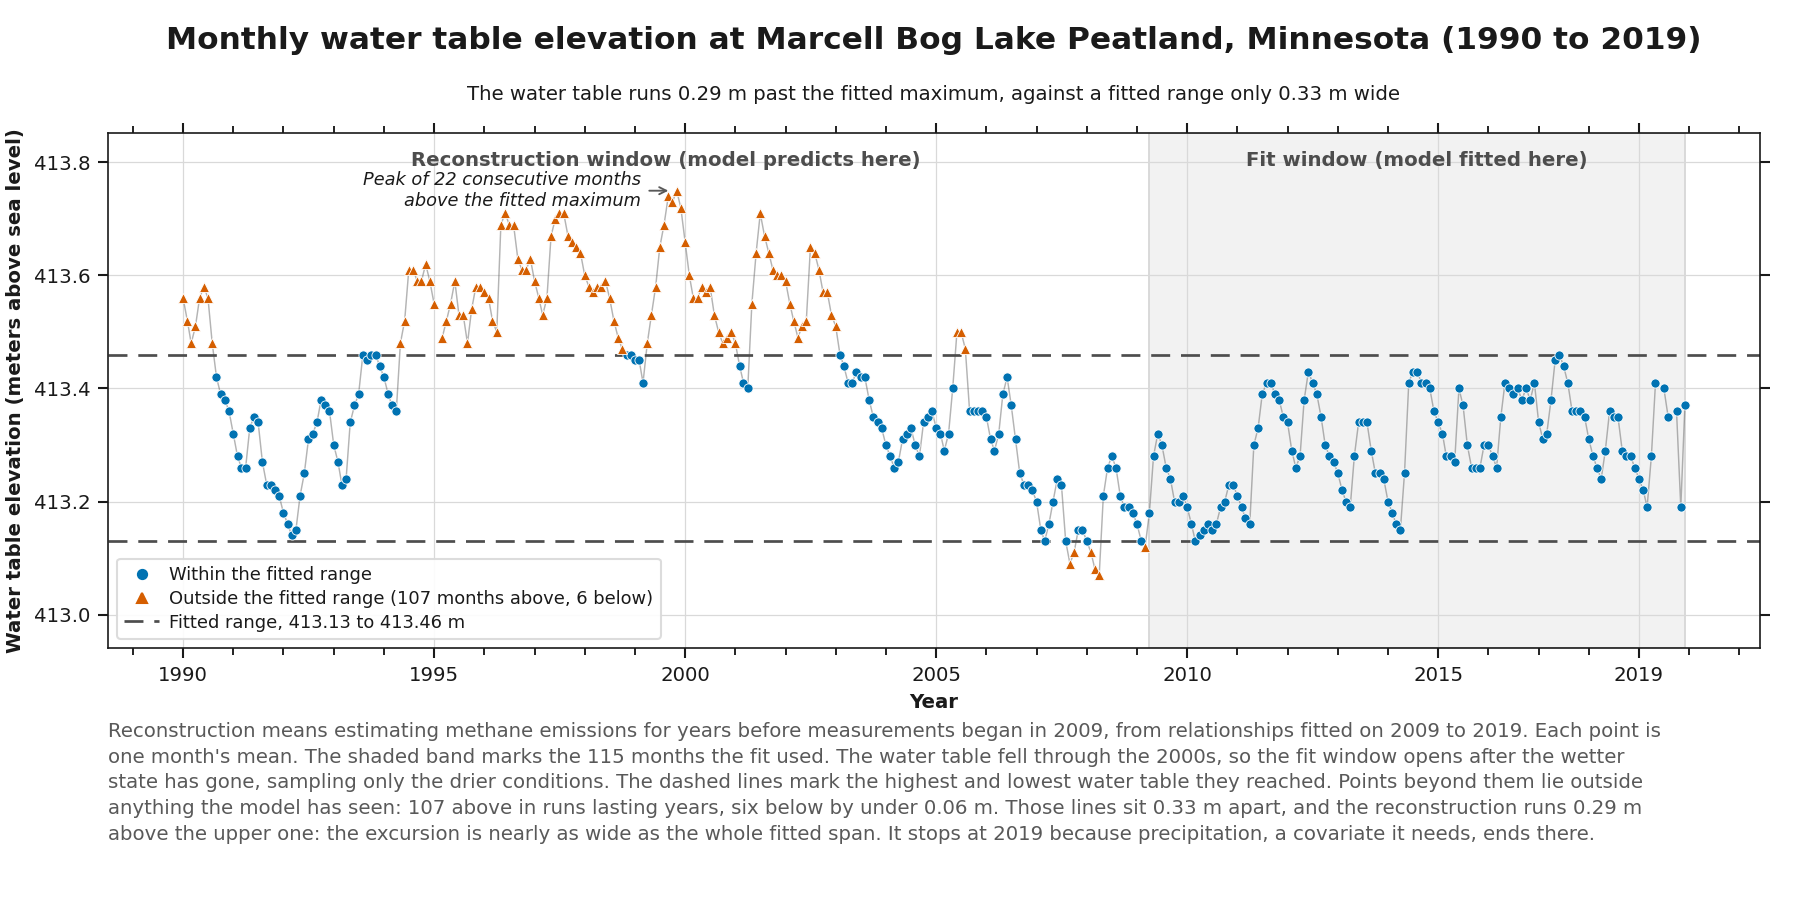
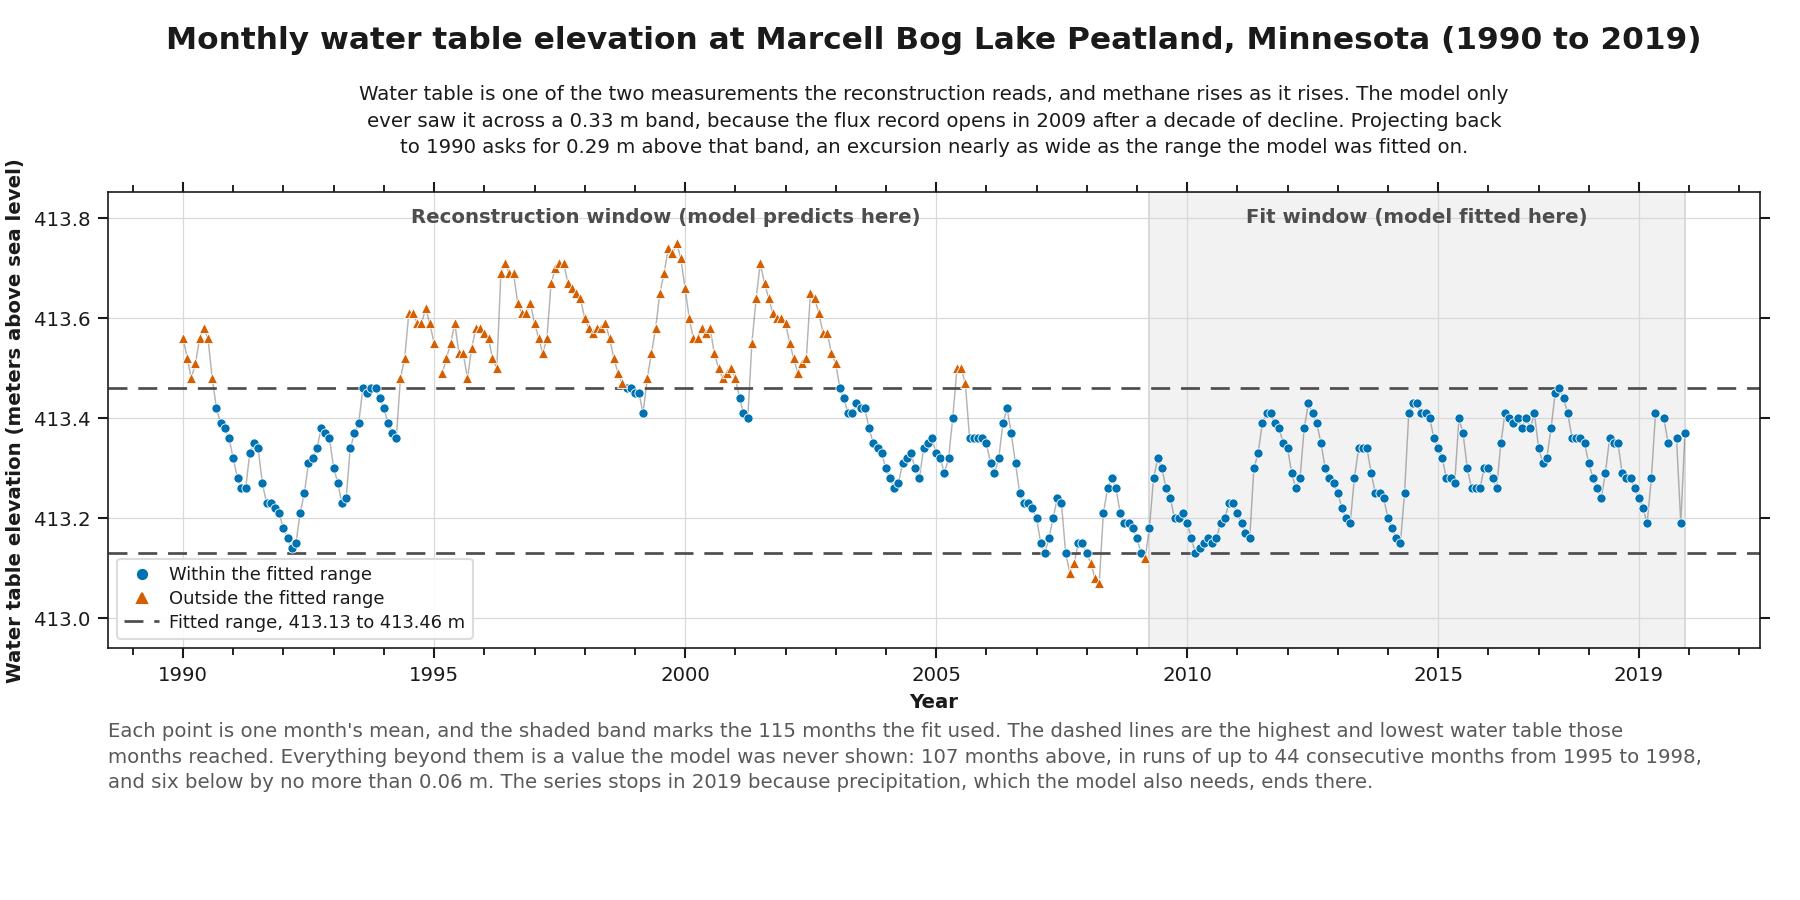
Ground the water table figure's claim, and give each mark one job
The subtitle stated a measurement with no grounding. It now names the range the
fit covered, says what the model reads water table for, and says how far the
reconstruction asks it to reach beyond that range. The relationship it asserts
was verified rather than assumed: water table enters as a positive term on log
flux at +2.3848 per metre unweighted and +2.7039 weighted, and neither
transform can invert it, since clamp is Series.clip and the target is np.log,
both monotone. The sign holds at every step of the stability path even though
the magnitude climbs 38% and 51%, so the direction is safe to state and a
number attached to it would not be.

The peak annotation is cut. It reported the run containing the highest month,
22, which reads as a maximum and is not one: the six runs above the fitted
maximum are 44, 22, 21, 9, 8 and 3, and the longest is 44 months from March
1995 to October 1998. That number belongs in the description, where it makes
"runs lasting years" concrete without competing with the window label for panel
space. Cutting it also removes the crowding against that label rather than
easing it, and _run_length goes with it.

The legend no longer counts. A legend says what a mark means; how many months
carry it is a finding, and the description states both counts. The elevations
stay on the dashed-line entry, because they are what the line marks and cannot
be read off the axis.

The description said six months fall below the fitted range by under 0.06 m.
[…]

diff --git a/src/study/figures.py b/src/study/figures.py
@@ -34,21 +34,19 @@ WATER_TABLE_ARTIFACTS = windows.WATER_TABLE_ARTIFACTS
 WATER_TABLE_TEXT = ps.FigureText(
     title="Monthly water table elevation at Marcell Bog Lake Peatland, Minnesota (1990 to 2019)",
     subtitle=(
-        "The water table runs 0.29 m past the fitted maximum, against a fitted range "
-        "only 0.33 m wide"
+        "Water table is one of the two measurements the reconstruction reads, and "
+        "methane rises as it rises. The model only ever saw it across a 0.33 m band, "
+        "because the flux record opens in 2009 after a decade of decline. Projecting "
+        "back to 1990 asks for 0.29 m above that band, an excursion nearly as wide as "
+        "the range the model was fitted on."
     ),
     description=(
-        "Reconstruction means estimating methane emissions for years before "
-        "measurements began in 2009, from relationships fitted on 2009 to 2019. "
-        "Each point is one month's mean. The shaded band marks the 115 months the "
-        "fit used. The water table fell through the 2000s, so the fit window opens "
-        "after the wetter state has gone, sampling only the drier conditions. The "
-        "dashed lines mark the highest and lowest water table they reached. Points "
-        "beyond them lie outside anything the model has seen: 107 above in runs "
-        "lasting years, six below by under 0.06 m. Those lines sit 0.33 m apart, "
-        "and the reconstruction runs 0.29 m above the upper one: the excursion is "
-        "nearly as wide as the whole fitted span. It stops at 2019 because "
-        "precipitation, a covariate it needs, ends there."
+        "Each point is one month's mean, and the shaded band marks the 115 months "
+        "the fit used. The dashed lines are the highest and lowest water table those "
+        "months reached. Everything beyond them is a value the model was never "
+        "shown: 107 months above, in runs of up to 44 consecutive months from 1995 "
+        "to 1998, and six below by no more than 0.06 m. The series stops in 2019 "
+        "because precipitation, which the model also needs, ends there."
     ),
 )
 
@@ -113,8 +111,9 @@ def water_table_support(
                markersize=4.4, label="Within the fitted range"),
         Line2D([], [], color=ps.OUTSIDE, marker=ps.OUTSIDE_MARKER, linestyle="none",
                markersize=5.0,
-               label=(f"Outside the fitted range "
-                      f"({int(above.sum())} months above, {int(below.sum())} below)")),
+               # A legend says what a mark means. How many carry it is a finding,
+               # and the description states both counts.
+               label="Outside the fitted range"),
         Line2D([], [], color=ps.BOUNDARY, linewidth=1.3, linestyle=(0, (7, 4)),
                label=f"Fitted range, {low:.2f} to {high:.2f} m"),
     ]
@@ -122,28 +121,8 @@ def water_table_support(
               loc="lower left", ncols=1, fontsize=8.6, borderpad=0.42,
               labelspacing=0.32, handlelength=1.9, handletextpad=0.6)
 
-    if above.any():
-        peak = int(np.nanargmax(np.where(above, values, np.nan)))
-        run = _run_length(above, peak)
-        ps.annotate(
-            ax,
-            f"Peak of {run} consecutive months\nabove the fitted maximum",
-            xy=(times[peak], values[peak]),
-            xytext=(times[peak] - pd.Timedelta(days=260), values[peak]),
-            ha="right", va="center",
-        )
     return fig
 
-
-def _run_length(flags: np.ndarray, index: int) -> int:
-    """Length of the unbroken stretch of True values containing one position."""
-    start = index
-    while start > 0 and flags[start - 1]:
-        start -= 1
-    end = index
-    while end + 1 < len(flags) and flags[end + 1]:
-        end += 1
-    return end - start + 1
 
 #: The three lines are three assumptions about one term, not three models, so
 #: they are named on the panel by what each assumes rather than by the internal

diff --git a/tests/test_figures.py b/tests/test_figures.py
@@ -21,11 +21,31 @@ def frames():
     return series, months[12:], months[:12]
 
 
-def test_months_beyond_the_fitted_range_are_marked_and_counted():
+def test_each_legend_entry_does_one_job():
+    """A legend says what a mark means, and the range entry says where it sits.
+
+    How many months fall outside is a finding rather than a key, and the
+    description carries both counts. The elevations stay, because they are what
+    the dashed lines mark and a reader cannot read them off the axis.
+    """
     series, fit, reconstruction = frames()
     fig = figures.water_table_support(series, fit, reconstruction, artifacts=())
     labels = [t.get_text() for t in fig.axes[0].get_legend().get_texts()]
-    assert any("6 months above" in l for l in labels), labels
+    assert "Outside the fitted range" in labels, labels
+    assert not any(char.isdigit() for label in labels
+                   for char in label if "Fitted range," not in label), labels
+    assert any(label.startswith("Fitted range, ") and " to " in label
+               for label in labels), labels
+    ps.plt.close(fig)
+
+
+def test_months_beyond_the_fitted_range_are_marked_apart():
+    series, fit, reconstruction = frames()
+    fig = figures.water_table_support(series, fit, reconstruction, artifacts=())
+    marks = {(line.get_color(), line.get_marker())
+             for line in fig.axes[0].lines
+             if line.get_linestyle() == "None" and len(line.get_xdata())}
+    assert len(marks) == 2, f"inside and outside are two separate marks: {marks}"
     ps.plt.close(fig)
 
 
@@ -75,8 +95,23 @@ def test_the_figure_carries_its_own_words():
     assert figures.WATER_TABLE_TEXT.title
     assert figures.WATER_TABLE_TEXT.subtitle != figures.WATER_TABLE_TEXT.title
     body = ps.readme_block(figures.WATER_TABLE_TEXT, "water_table_support")
-    # The central term is defined for a reader arriving cold.
-    assert body.index("Reconstruction means") < body.index("Each point")
+    assert "Each point" in body
+
+
+def test_the_panel_defines_reconstruction_for_a_reader_arriving_cold():
+    """The definition moved out of the description and onto the panel.
+
+    The description used to open by saying what reconstruction means. It now
+    opens on the marks, and the term is defined where it is drawn: the two
+    period labels say which window the model was fitted on and which it
+    predicts into, which is the whole of the definition a reader needs here.
+    """
+    series, fit, reconstruction = frames()
+    fig = figures.water_table_support(series, fit, reconstruction)
+    drawn = " ".join(t.get_text() for t in fig.axes[0].texts)
+    assert "model predicts here" in drawn, drawn
+    assert "model fitted here" in drawn, drawn
+    ps.plt.close(fig)
 
 
 def annual_frame():

diff --git a/figures/README_fragments.md b/figures/README_fragments.md
@@ -2,9 +2,9 @@
 
 ![Monthly water table elevation at Marcell Bog Lake Peatland, Minnesota (1990 to 2019)](figures/water_table_support.png)
 
-**The water table runs 0.29 m past the fitted maximum, against a fitted range only 0.33 m wide**
+**Water table is one of the two measurements the reconstruction reads, and methane rises as it rises. The model only ever saw it across a 0.33 m band, because the flux record opens in 2009 after a decade of decline. Projecting back to 1990 asks for 0.29 m above that band, an excursion nearly as wide as the range the model was fitted on.**
 
-Reconstruction means estimating methane emissions for years before measurements began in 2009, from relationships fitted on 2009 to 2019. Each point is one month's mean. The shaded band marks the 115 months the fit used. The water table fell through the 2000s, so the fit window opens after the wetter state has gone, sampling only the drier conditions. The dashed lines mark the highest and lowest water table they reached. Points beyond them lie outside anything the model has seen: 107 above in runs lasting years, six below by under 0.06 m. Those lines sit 0.33 m apart, and the reconstruction runs 0.29 m above the upper one: the excursion is nearly as wide as the whole fitted span. It stops at 2019 because precipitation, a covariate it needs, ends there.
+Each point is one month's mean, and the shaded band marks the 115 months the fit used. The dashed lines are the highest and lowest water table those months reached. Everything beyond them is a value the model was never shown: 107 months above, in runs of up to 44 consecutive months from 1995 to 1998, and six below by no more than 0.06 m. The series stops in 2019 because precipitation, which the model also needs, ends there.
 
 ### The flux tower and the wind directions it measures at Marcell Bog Lake Peatland
 
